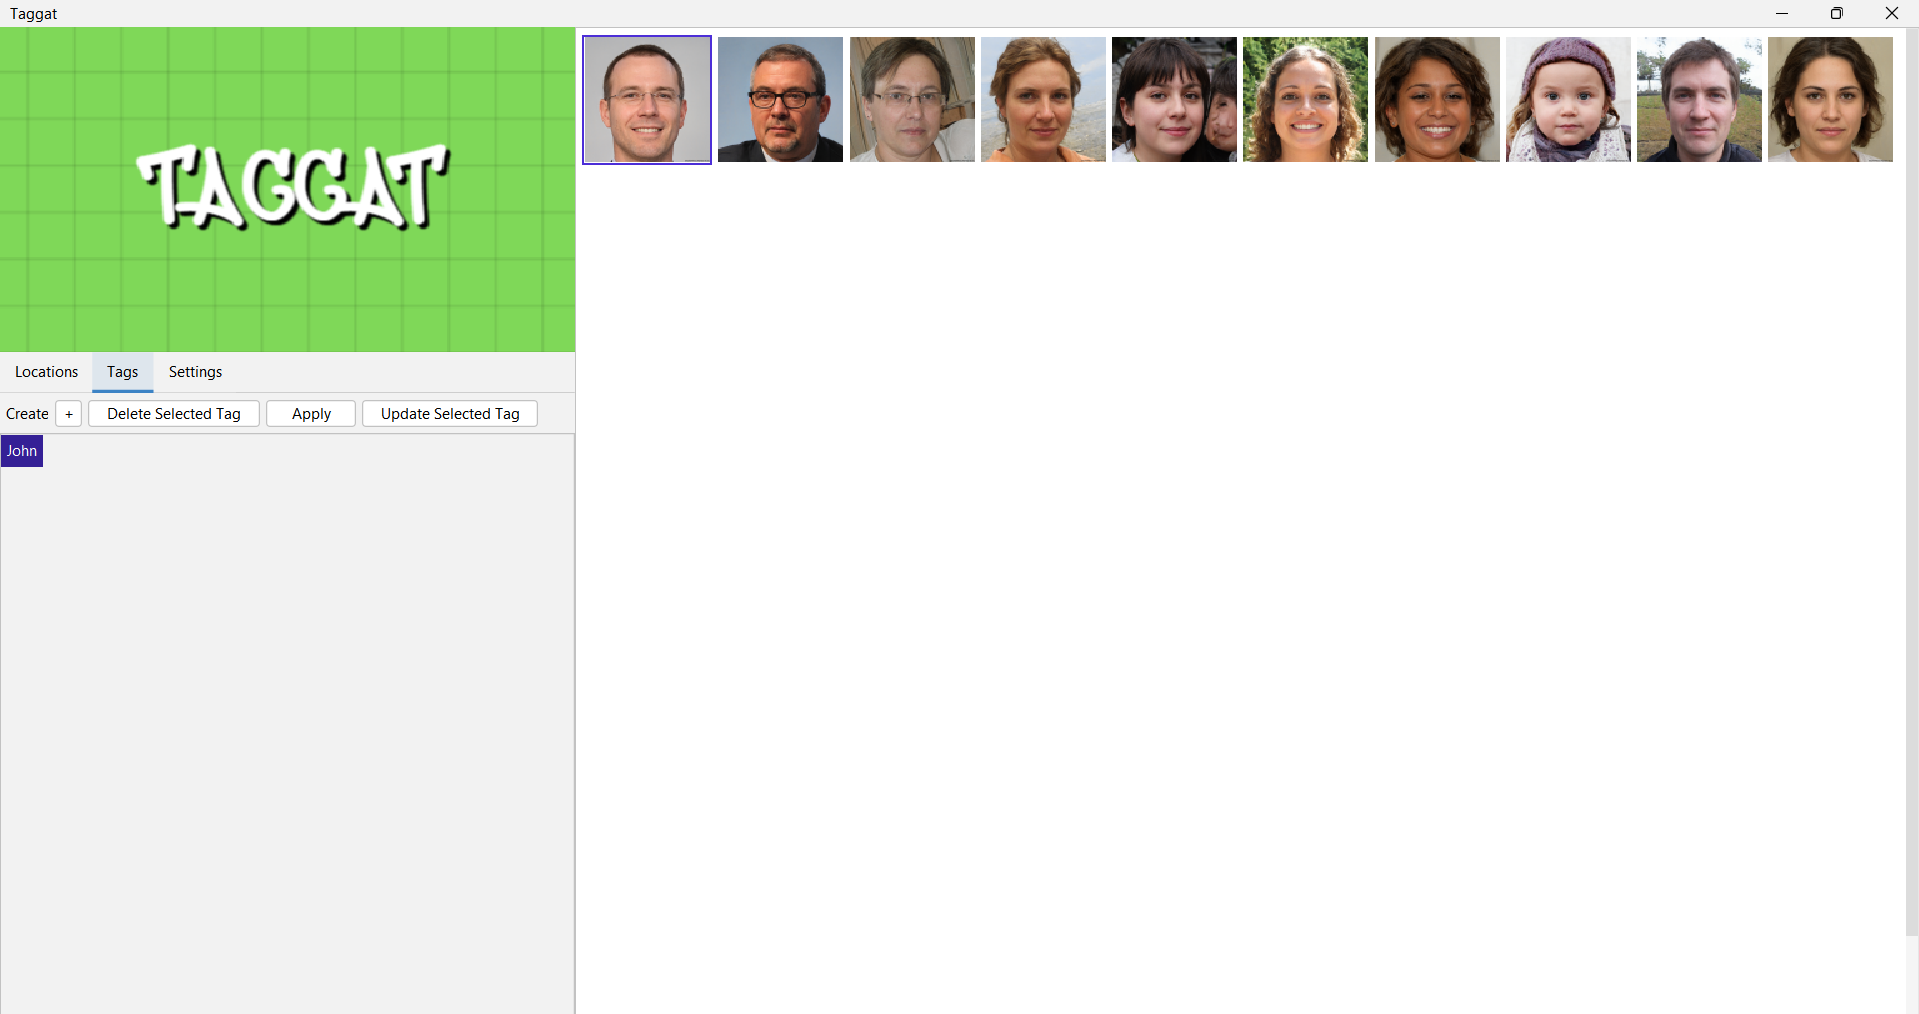
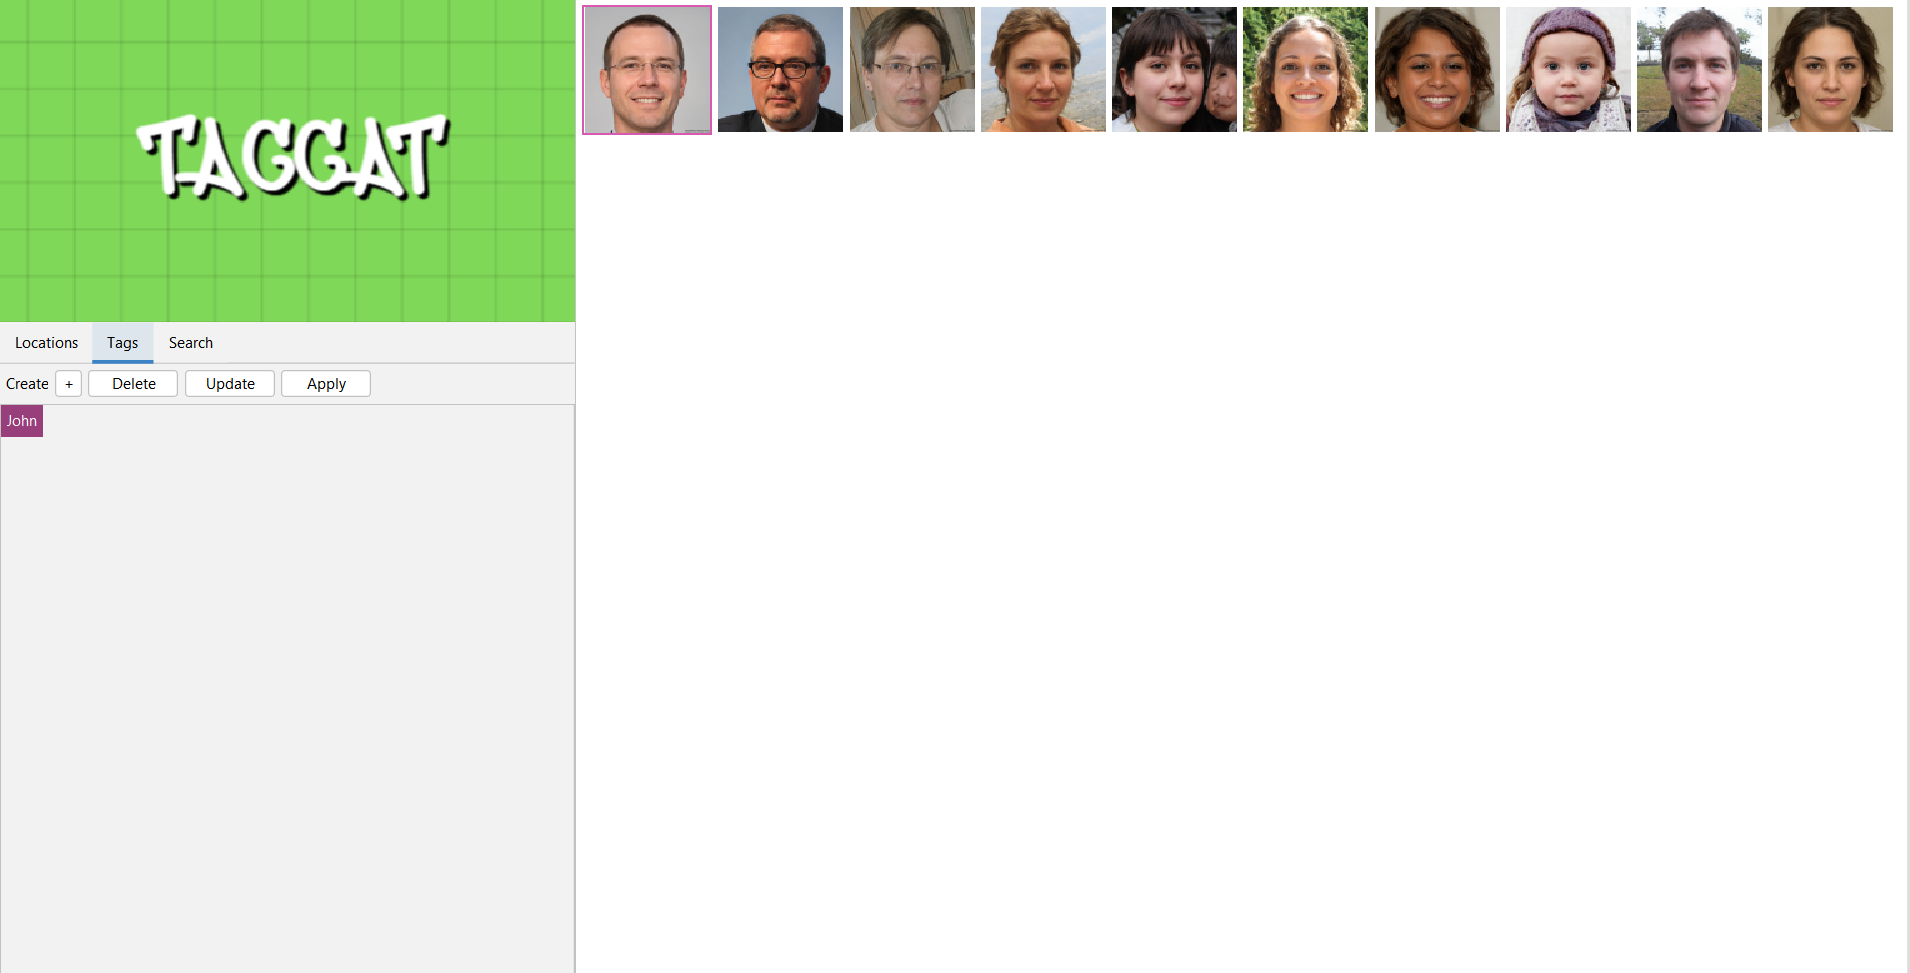
updated ui

Changed region(s): [[0.0, 0.0, 1.0, 0.925], [0.0, 0.3083, 0.3089, 0.4625], [0.0618, 0.1233, 0.2471, 0.2467]]

diff --git a/src/main/java/taggat/Taggat.java b/src/main/java/taggat/Taggat.java
@@ -259,7 +259,7 @@ public class Taggat {
         });
 
         // Delete Tag Button
-        JButton deleteTagButton = new JButton("Delete Selected Tag");
+        JButton deleteTagButton = new JButton("Delete");
         deleteTagButton.addActionListener(e -> {
             if (selectedTag != null) {
                 for (Component comp : tagsContentPanel.getComponents()) {
@@ -279,33 +279,8 @@ public class Taggat {
         });
         tagsTopPanel.add(deleteTagButton);
 
-        // Apply Button to persist tag-to-photo relationships
-        JButton applyButton = new JButton("Apply");
-        applyButton.addActionListener(e -> {
-            if (selectedTag != null) {
-                // Save the selected tag and image information to the database
-                for (Component comp : rightPanel.getComponents()) {
-                    if (comp instanceof JLabel) {
-                        JLabel label = (JLabel) comp;
-                        if (label.getBorder() != null) { // Check if the thumbnail is selected
-                            File file = new File(label.getText());
-                            DatabaseUtility databaseUtility = new DatabaseUtility();
-                            try {
-                                databaseUtility.createFile(file);
-                                databaseUtility.createTag(selectedTag);
-                                databaseUtility.createFilesTagsRelationship(file, selectedTag);
-                            } catch (SQLException ex) {
-                                Logger.getLogger(Taggat.class.getName()).log(Level.SEVERE, null, ex);
-                            }
-                        }
-                    }
-                }
-            }
-        });
-        tagsTopPanel.add(applyButton);
-
         // Update Tag Button
-        JButton updateTagButton = new JButton("Update Selected Tag");
+        JButton updateTagButton = new JButton("Update");
         updateTagButton.addActionListener(e -> {
             if (selectedTag != null) {
                 JTextField updateTagField = new JTextField(selectedTag);
@@ -343,16 +318,15 @@ public class Taggat {
         });
         tagsTopPanel.add(updateTagButton);
 
-        // Save Button on Right Panel
-        JButton saveButton = new JButton("Save");
-        saveButton.addActionListener(e -> {
+        // Apply Button to persist tag-to-photo relationships
+        JButton applyButton = new JButton("Apply");
+        applyButton.addActionListener(e -> {
             if (selectedTag != null) {
                 // Save the selected tag and image information to the database
                 for (Component comp : rightPanel.getComponents()) {
                     if (comp instanceof JLabel) {
                         JLabel label = (JLabel) comp;
                         if (label.getBorder() != null) { // Check if the thumbnail is selected
-                            // Save the file path, tag, and relationship to the database
                             File file = new File(label.getText());
                             DatabaseUtility databaseUtility = new DatabaseUtility();
                             try {
@@ -367,16 +341,16 @@ public class Taggat {
                 }
             }
         });
-        rightPanel.add(saveButton);
+        tagsTopPanel.add(applyButton);
 
-        // Settings tab
+        // Search tab
         JPanel settingsPanel = new JPanel(new BorderLayout());
         // Remaining code for the Settings panel...
 
         // Add tabs to tabbedPane
         tabbedPane.addTab("Locations", locationsPanel);
         tabbedPane.addTab("Tags", tagsPanel);
-        tabbedPane.addTab("Settings", settingsPanel);
+        tabbedPane.addTab("Search", settingsPanel);
 
         leftPanel.add(tabbedPane, BorderLayout.CENTER);
 
